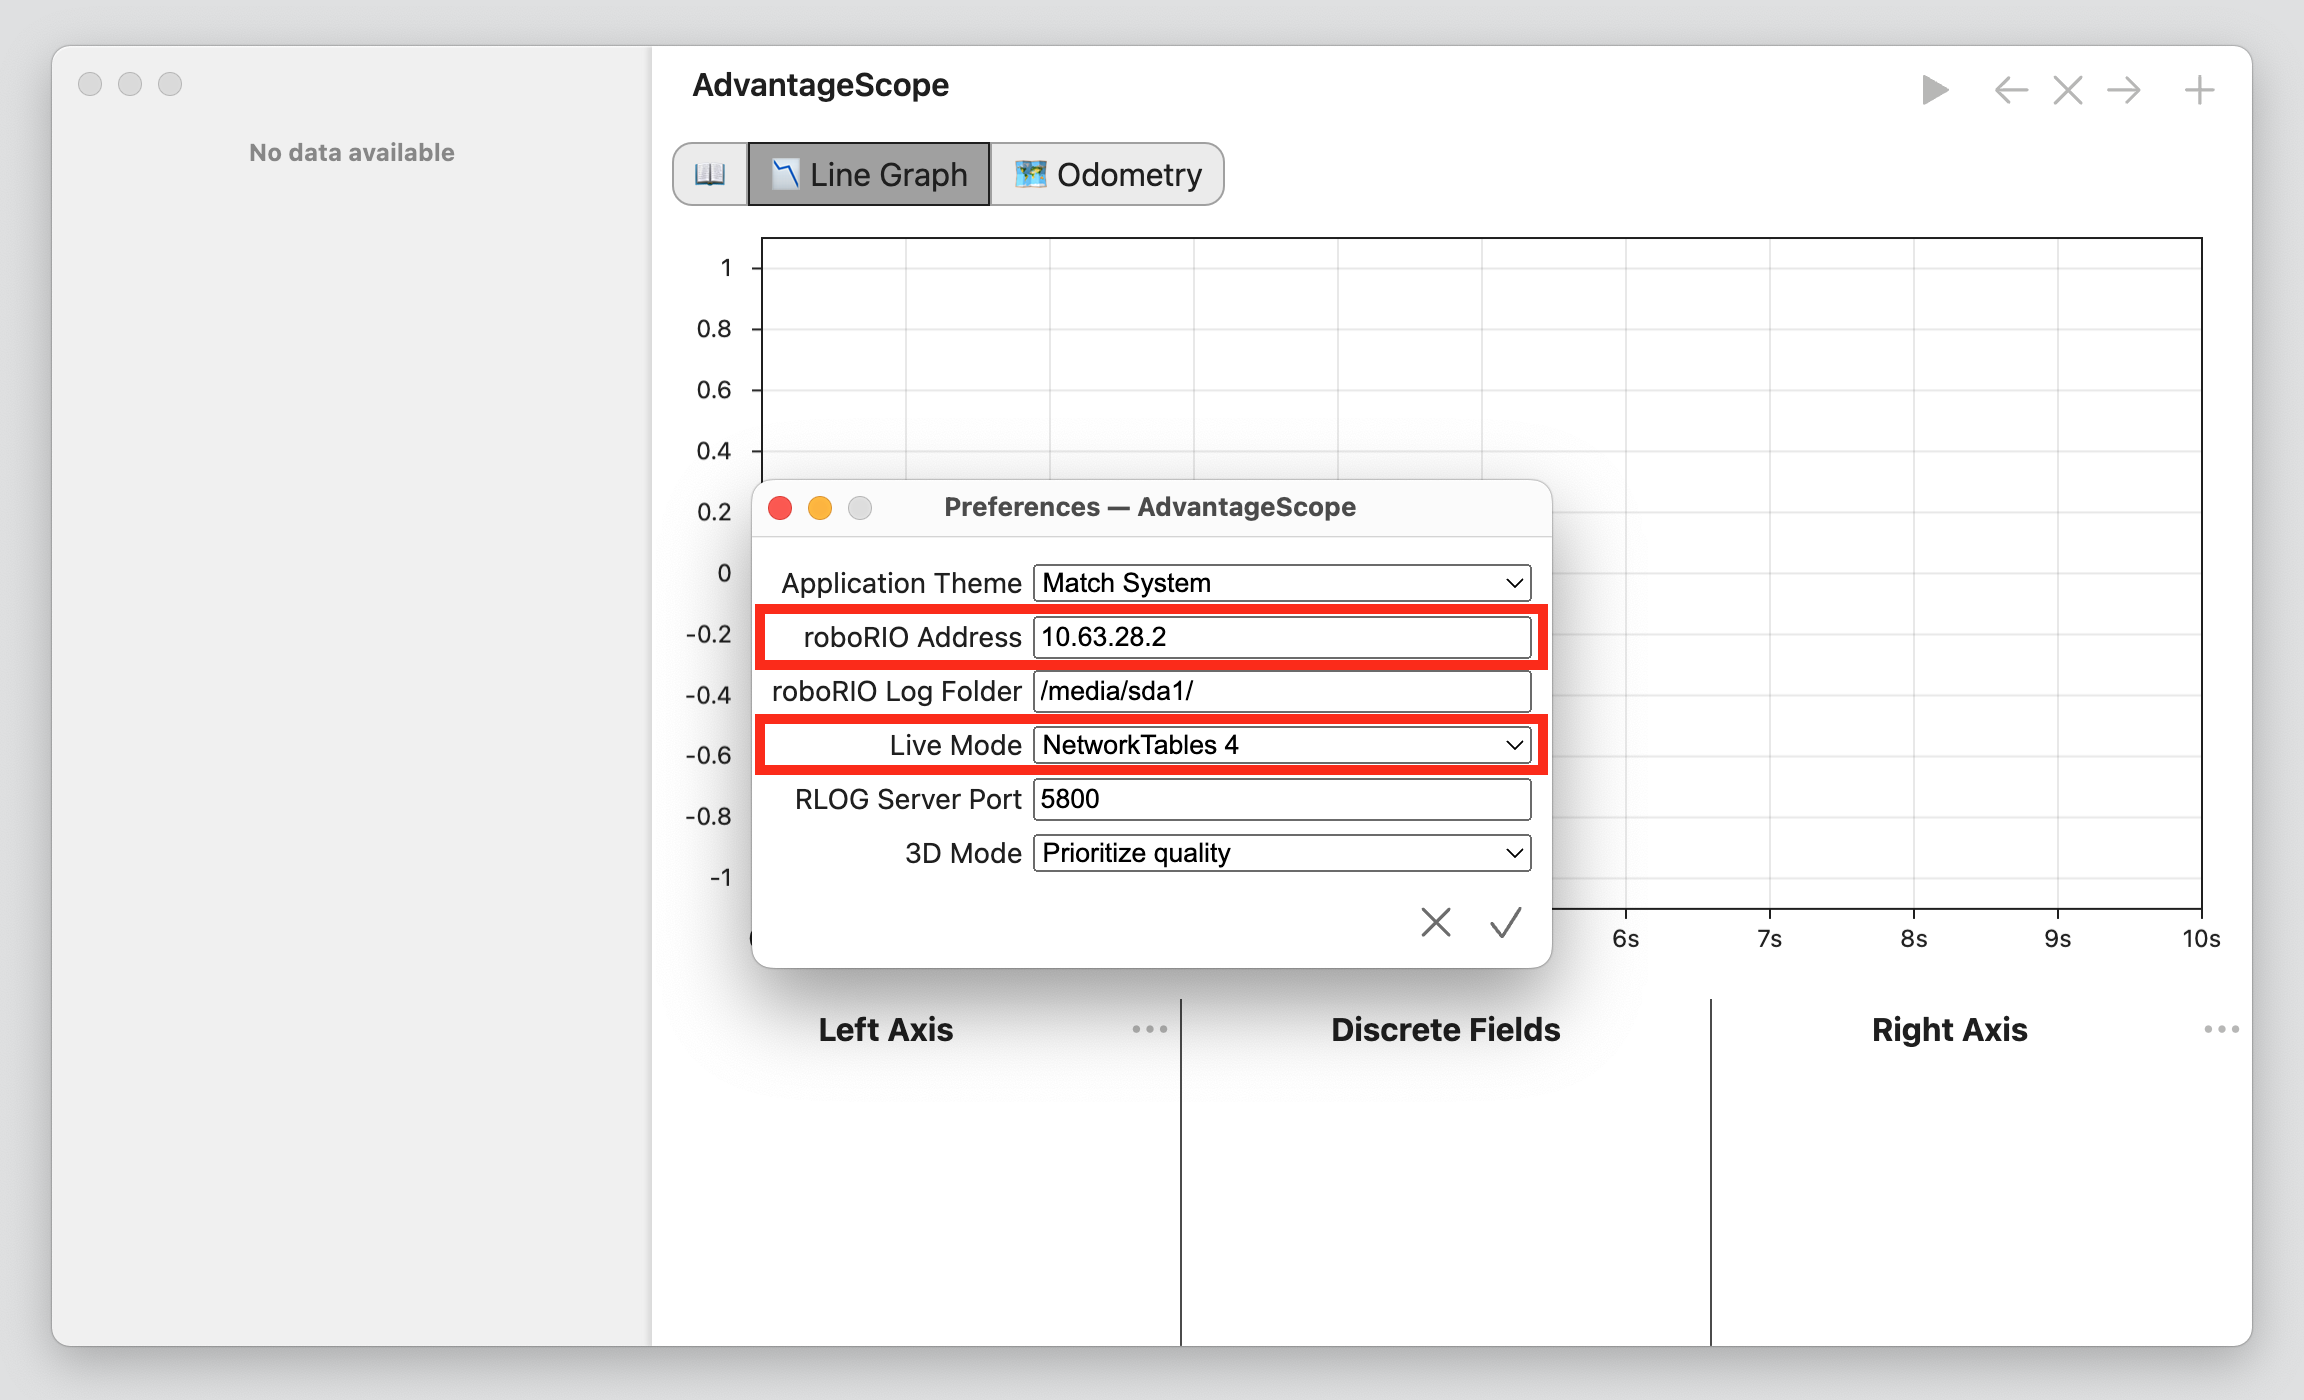
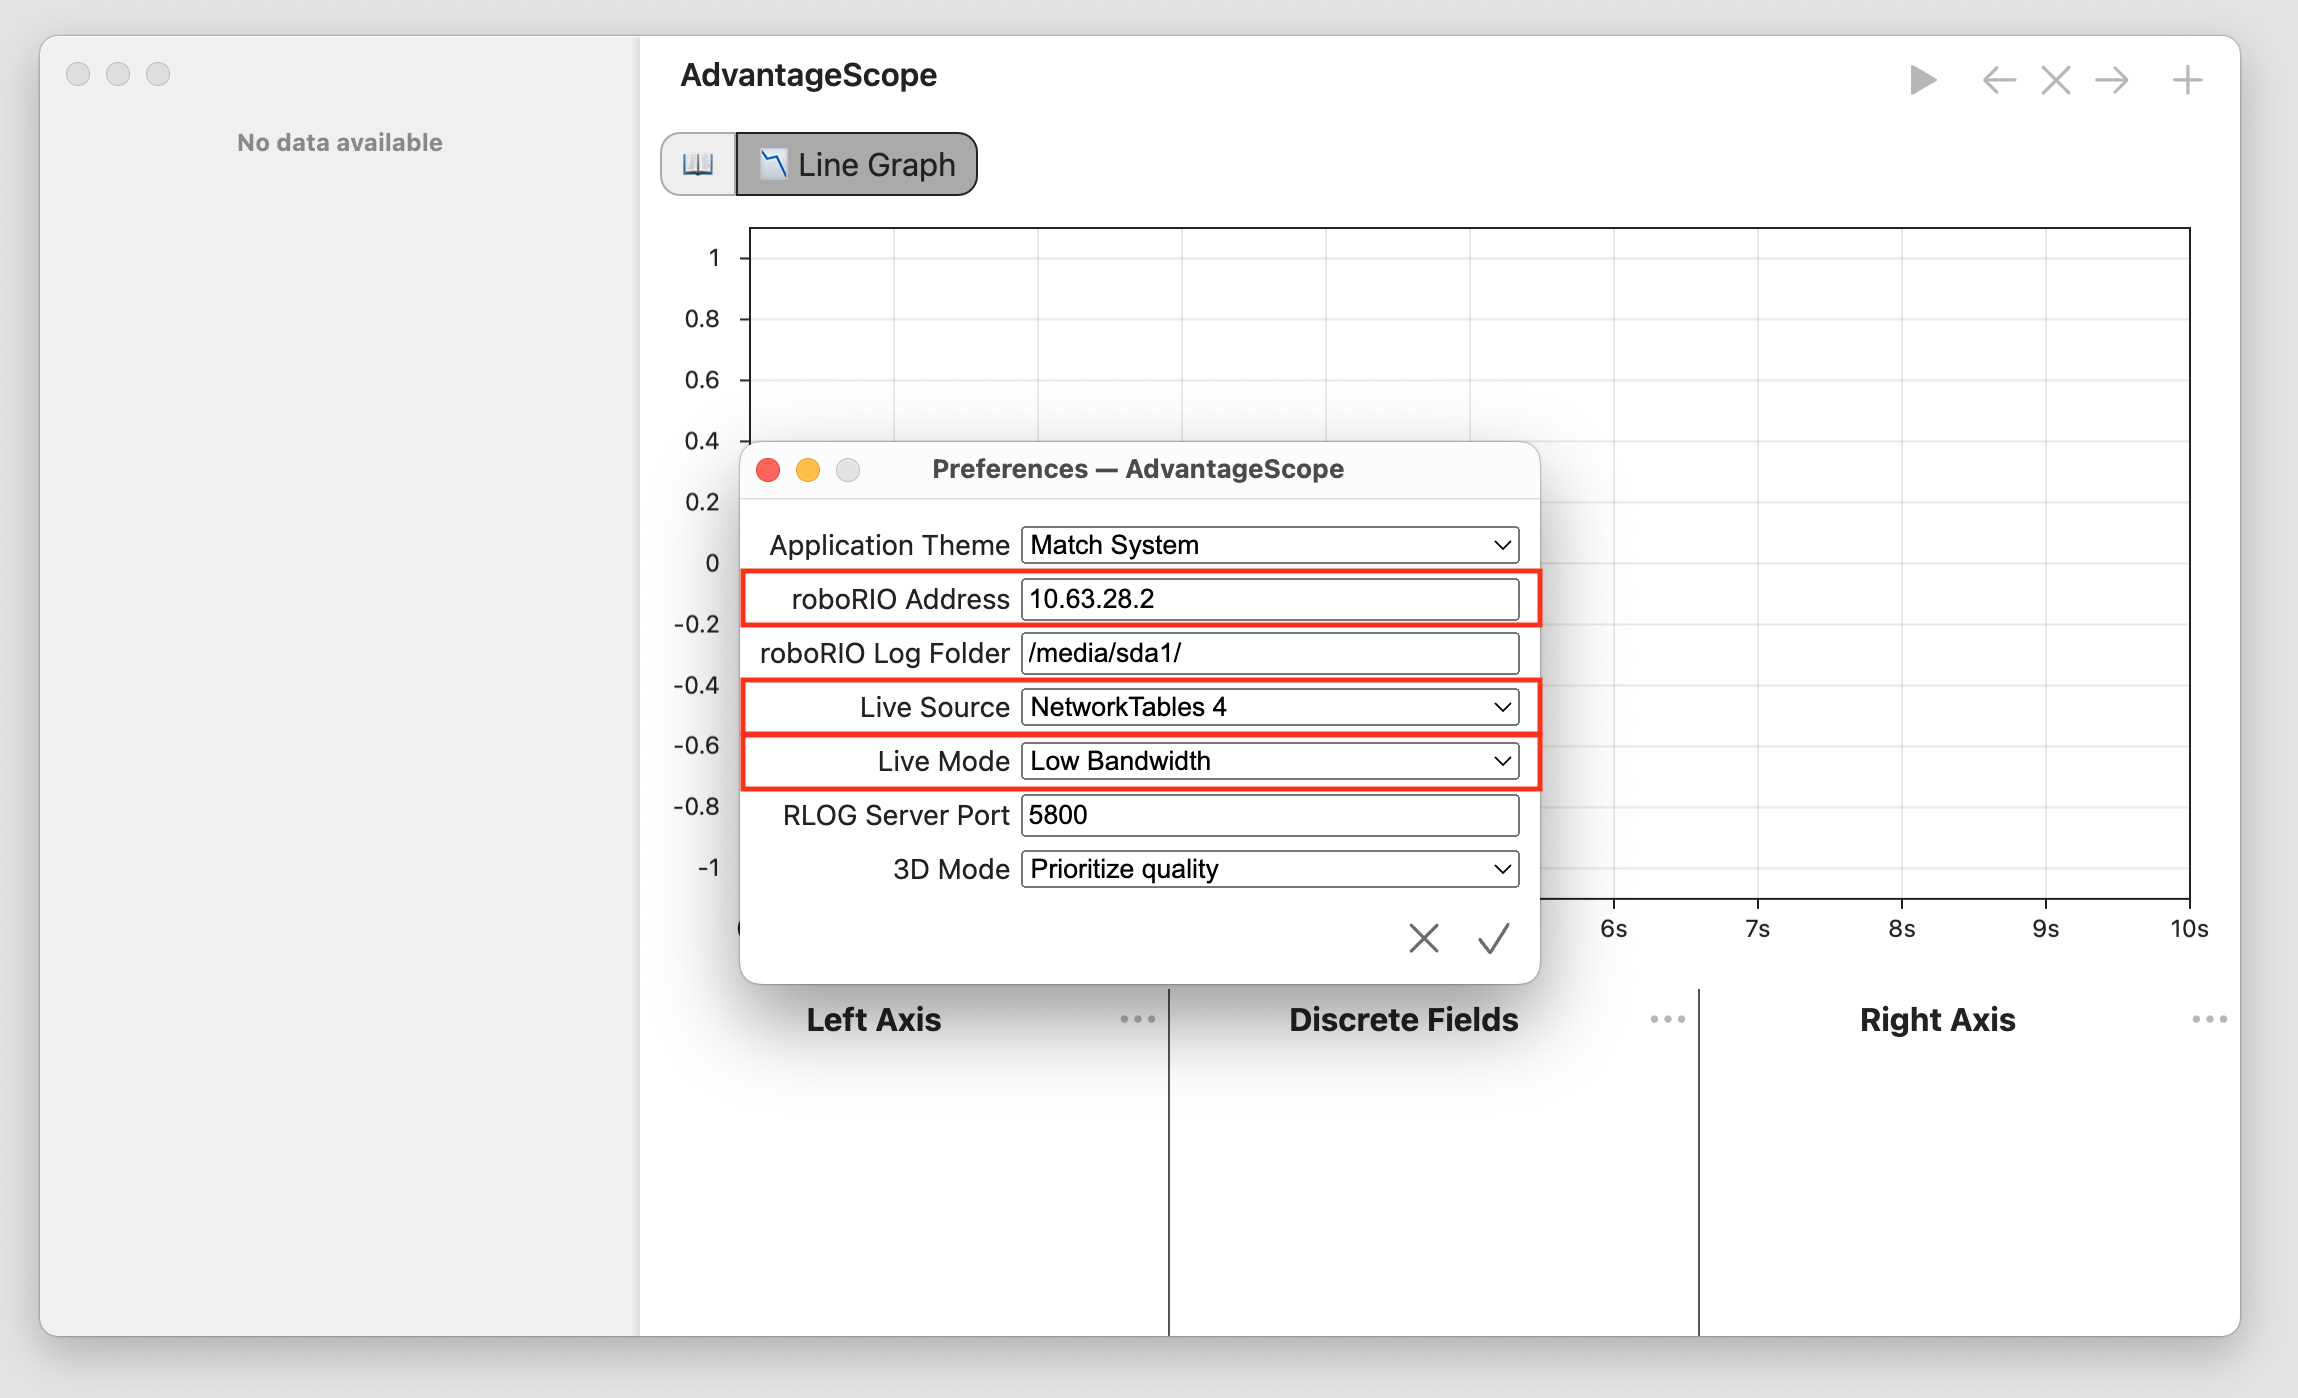
Update docs for low bandwidth live mode

diff --git a/docs/OPEN-LIVE.md b/docs/OPEN-LIVE.md
@@ -6,15 +6,28 @@ All visualizations in AdvantageScope are designed to receive live data from a ro
 
 ## Configuration
 
-Open the preferences window by pressing **cmd/ctrl + comma** or clicking "Help" > "Show Preferences..." (Windows/Linux) or "AdvantageScope" > "Preferences..." (macOS). Update the "roboRIO Address" and "Live Mode (options listed below).
+Open the preferences window by pressing **cmd/ctrl + comma** or clicking "Help" > "Show Preferences..." (Windows/Linux) or "AdvantageScope" > "Preferences..." (macOS).
 
-> Note: Click "File" > "Use USB roboRIO Address" to temporarily use the IP address "172.22.11.2" for all connections.
+![Diagram of live preferences](/docs/resources/open-live/open-live-1.png)
+
+### roboRIO Address
+
+Enter the roboRIO address using a 10.TE.AM.2 IP address as described in the [WPILib docs](https://docs.wpilib.org/en/stable/docs/networking/networking-introduction/ip-configurations.html#te-am-ip-notation). Click "File" > "Use USB roboRIO Address" to temporarily use the IP address "172.22.11.2" for all connections.
+
+### Live Source
+
+The following sources of live data are supported by AdvantageScope:
 
 - **NetworkTables 4:** This is the default networking protocol starting in WPILib 2023, and is commonly used by dashboards, coprocessors, etc. See the [WPILib documentation](https://docs.wpilib.org/en/stable/docs/software/networktables/index.html) for more details. Note that NetworkTables 3 (used by WPILib 2022 and older) is not supported by AdvantageScope.
 - **NetworkTables 4 (AdvantageKit):** This mode is designed for use with robot code running AdvantageKit, which publishes to the "/AdvantageKit" table in NetworkTables. The only difference from the **NetworkTables 4** mode is that the "/AdvantageKit" table is used as the root, which allows for easier switching between an NT4 connection and an AdvantageKit log file.
 - **RLOG Server:** This protocol is used by AdvantageKit v1 (2022), and is included for compatibility with older code bases. Note that the "RLOG Server Port" must be set to use this mode.
 
-![Diagram of live preferences](/docs/resources/open-live/open-live-1.png)
+### Live Mode
+
+When NetworkTables is used as the live source, the following live modes can be selected:
+
+- **Low Bandwidth (Default):** AdvantageScope only requests data from the server for fields that are actively being used. Data published before a field was selected will not be available. This mode is **highly recommended** when running in an environment with limited network bandwidth, such as on the field.
+- **Logging:** AdvantageScope requests data for all fields regardless of whether they are actively being used. This means that fields can be viewed retroactively by pausing the stream of live data (see below). This mode is often useful during development but **should NOT be used on the field**.
 
 ## Starting the Connection
 
